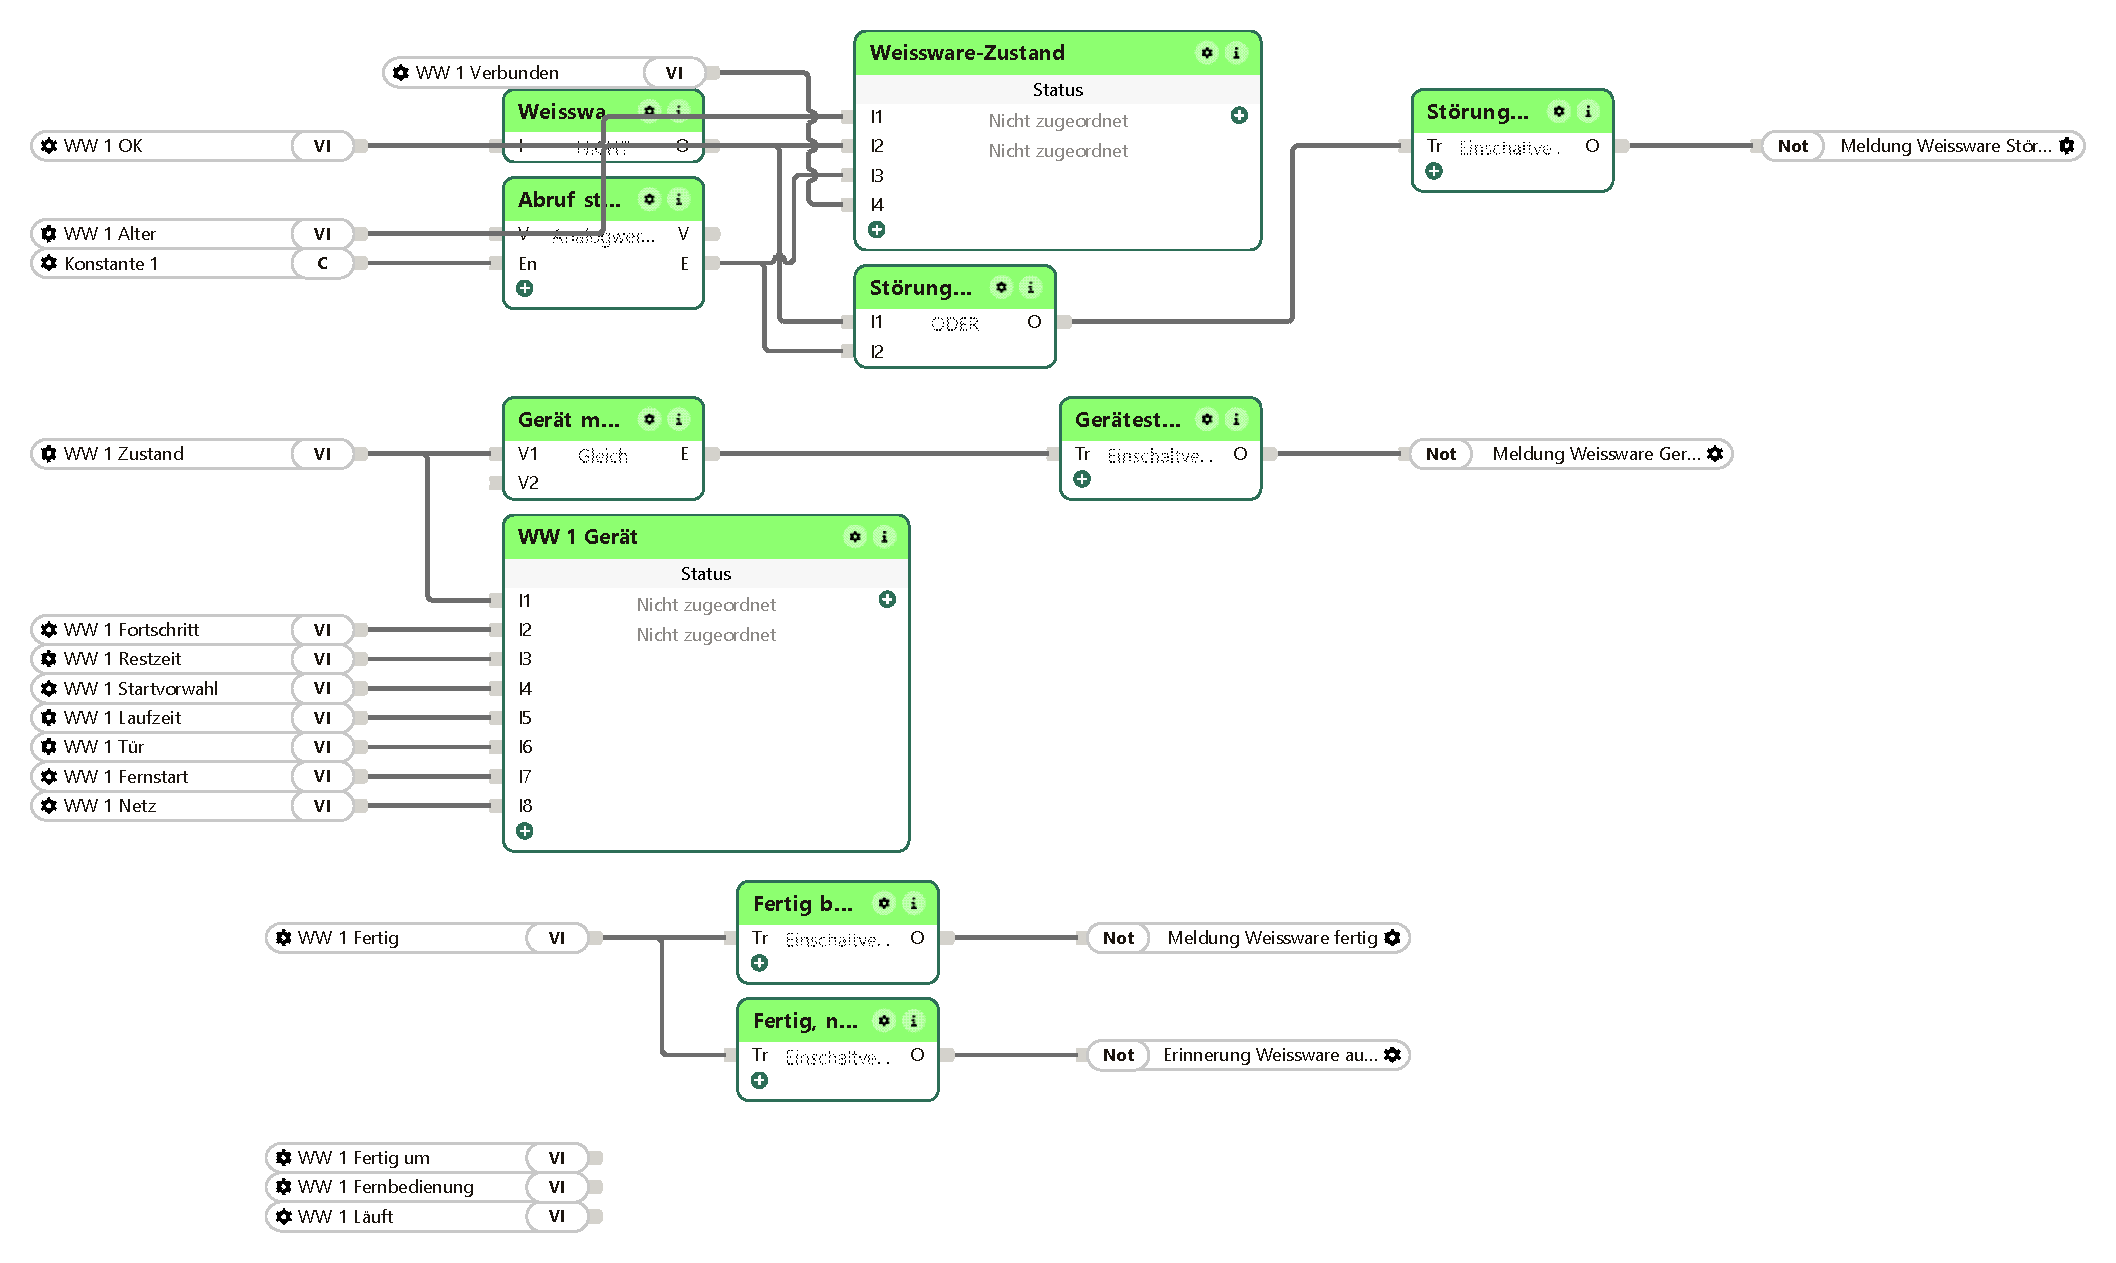
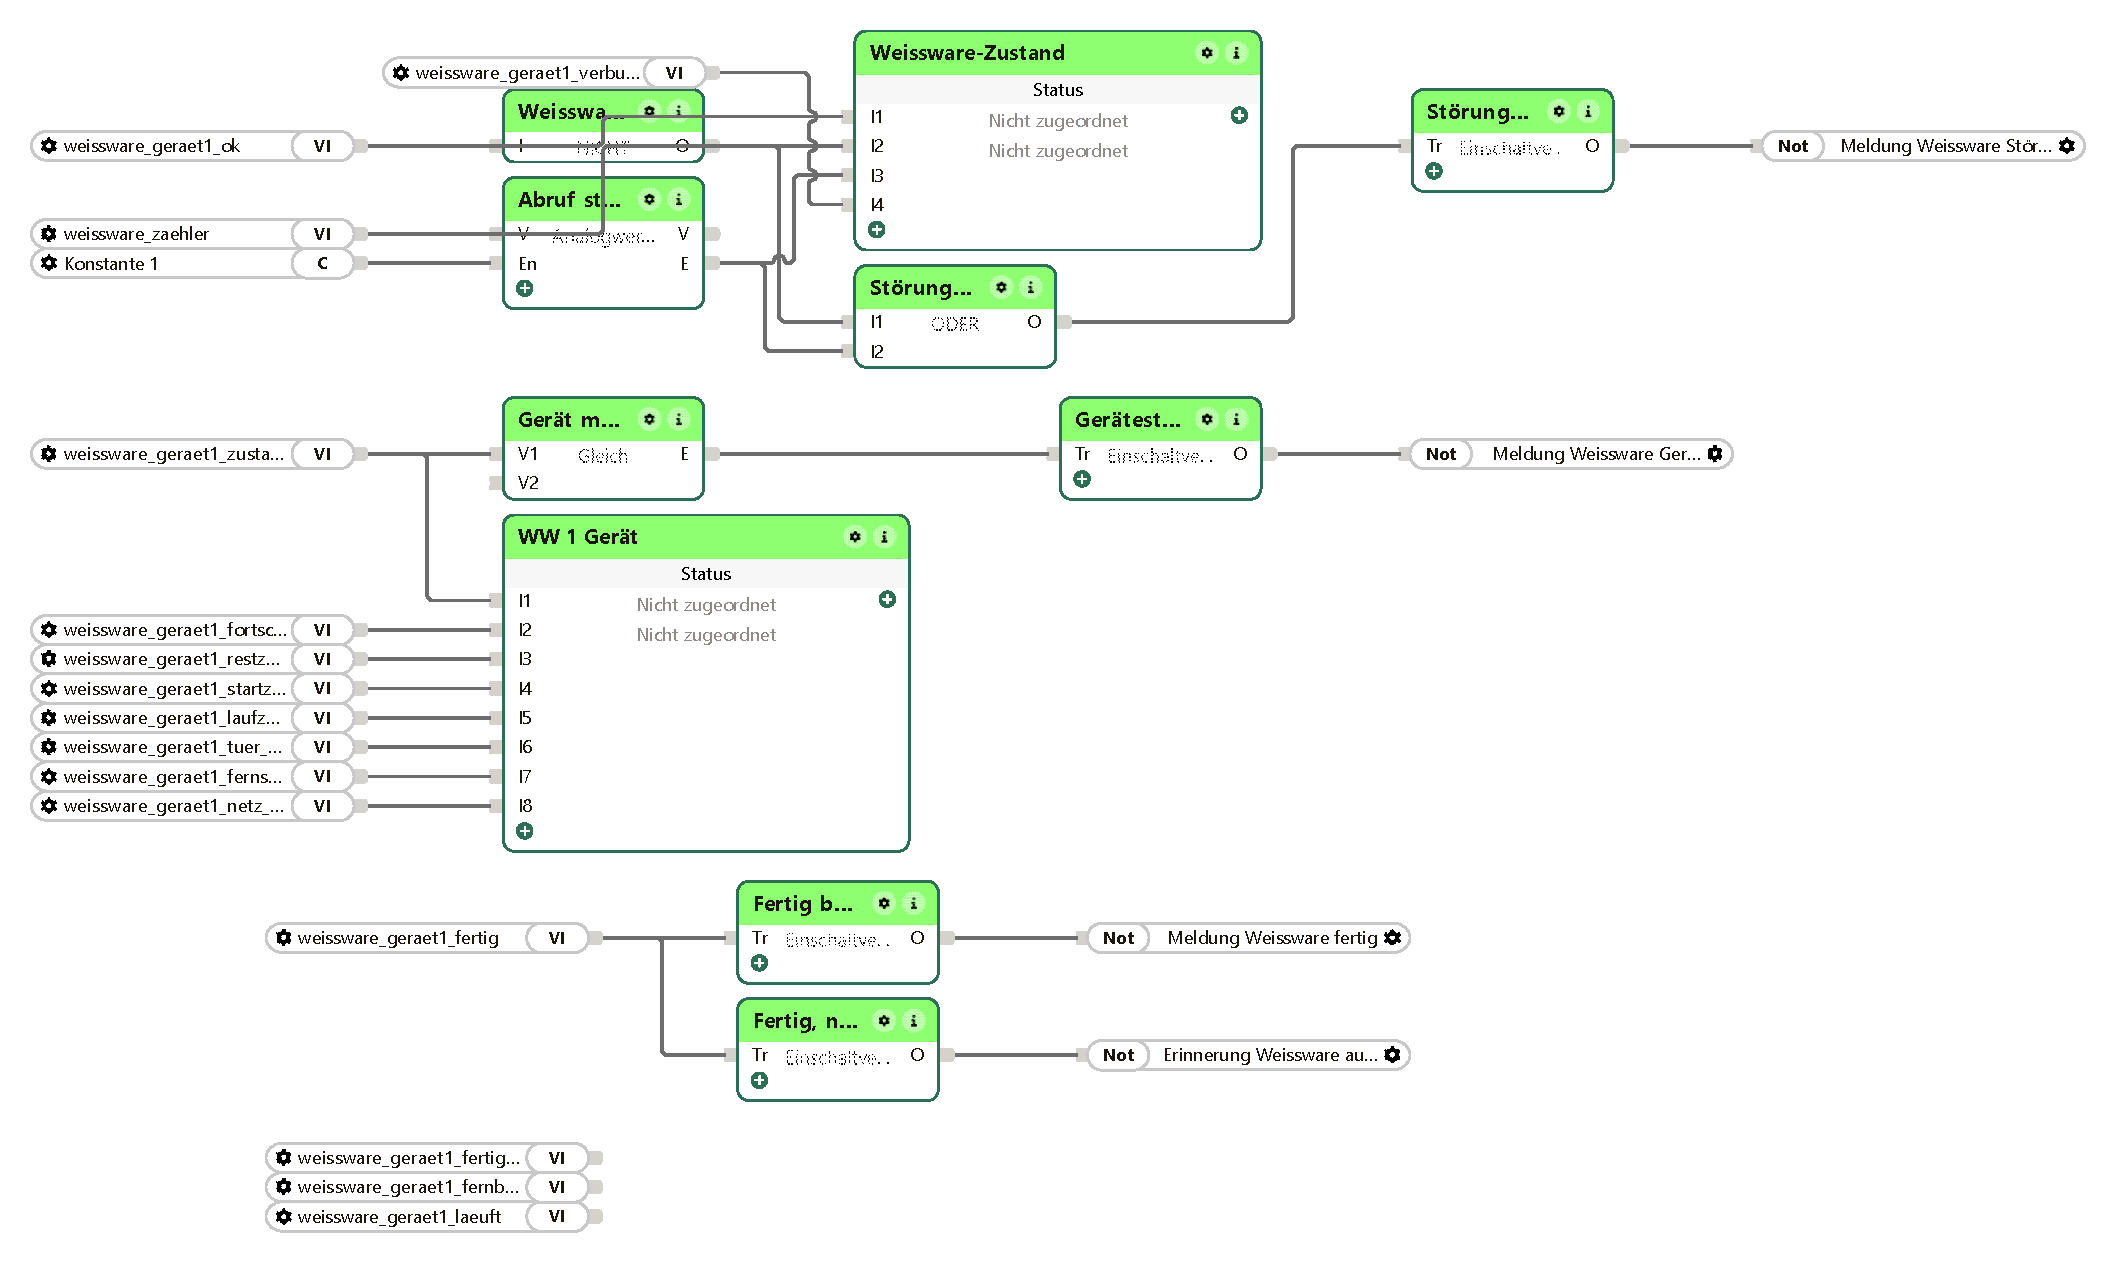
Weissware 0.9.45: Bilder der Einbindung erneuert (Musterprojekt 614cd0f)
Bilder der Einbindung erneuert: Die Seitenbilder zeigen jetzt die Musterprojekt-Seiten in der Hausform (MQTT-Gateway V2 und Befehlsbrücke statt der früheren HTTP-Vorlagen). Sonst keine Änderung gegen 0.9.44.

diff --git a/README.md b/README.md
@@ -10,12 +10,16 @@ Miele-Geschirrspüler danach genauso aus wie eine Bosch-Waschmaschine.
 | **Miele** | Miele@home (3rd Party API) | OAuth2 Authorization Code, Code von Hand |
 | **SmartThings** | Samsung | Personal Access Token — **siehe Vorbehalt** |
 
-> **Fassung 0.9.44 — ungeprüft.** Das Plugin wurde ohne Entwicklerkonten und
+> **Fassung 0.9.45 — ungeprüft.** Das Plugin wurde ohne Entwicklerkonten und
 > ohne Geräte gebaut. Endpunkte und Datenformen stammen aus den
 > Entwicklerdokumentationen, nicht aus einer Messung. Geprüft ist alles übrige:
 > Oberfläche, Endpunkt, Absicherung, Warteschlange, Sprachdateien und die
 > Zuordnung selbst — letztere gegen nachgebaute Antworten in der dokumentierten
 > Form. Schreibende Befehle sind ab Werk gesperrt.
+
+## Neu in 0.9.45
+
+Bilder der Einbindung erneuert: Die Seitenbilder zeigen jetzt die Musterprojekt-Seiten in der Hausform (MQTT-Gateway V2 und Befehlsbrücke statt der früheren HTTP-Vorlagen). Sonst keine Änderung gegen 0.9.44.
 
 ## Neu in 0.9.44
 
